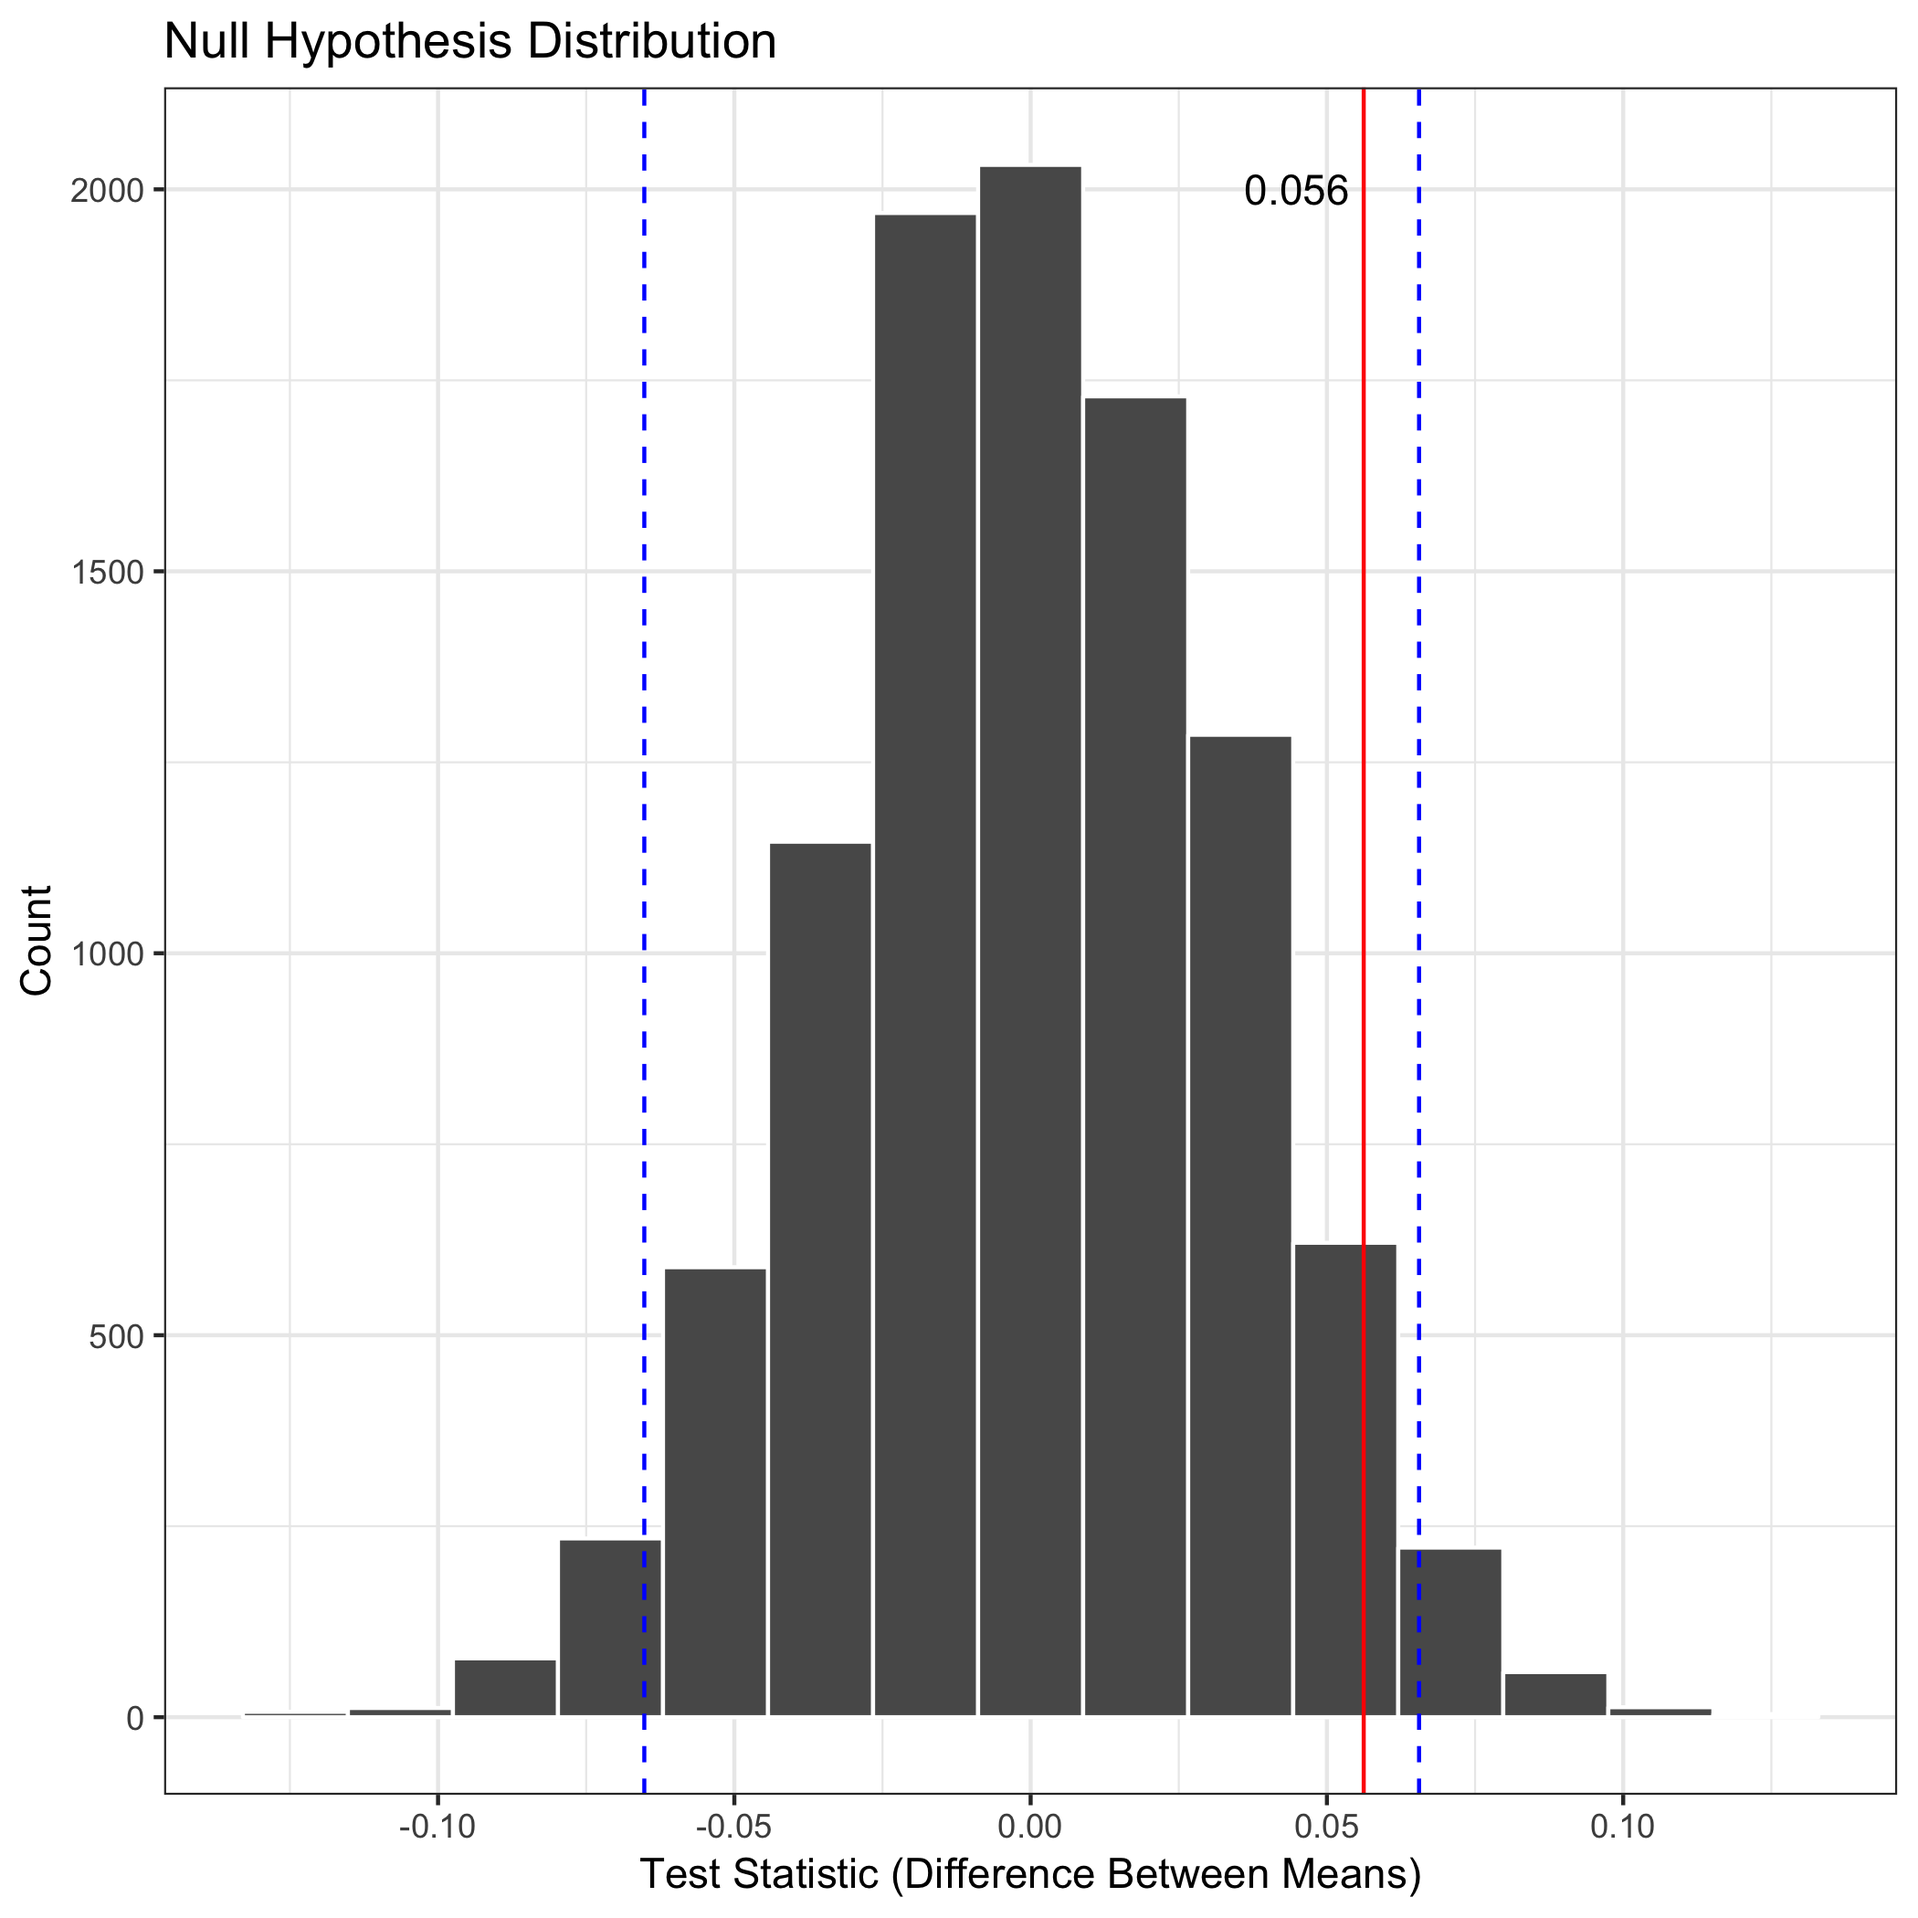
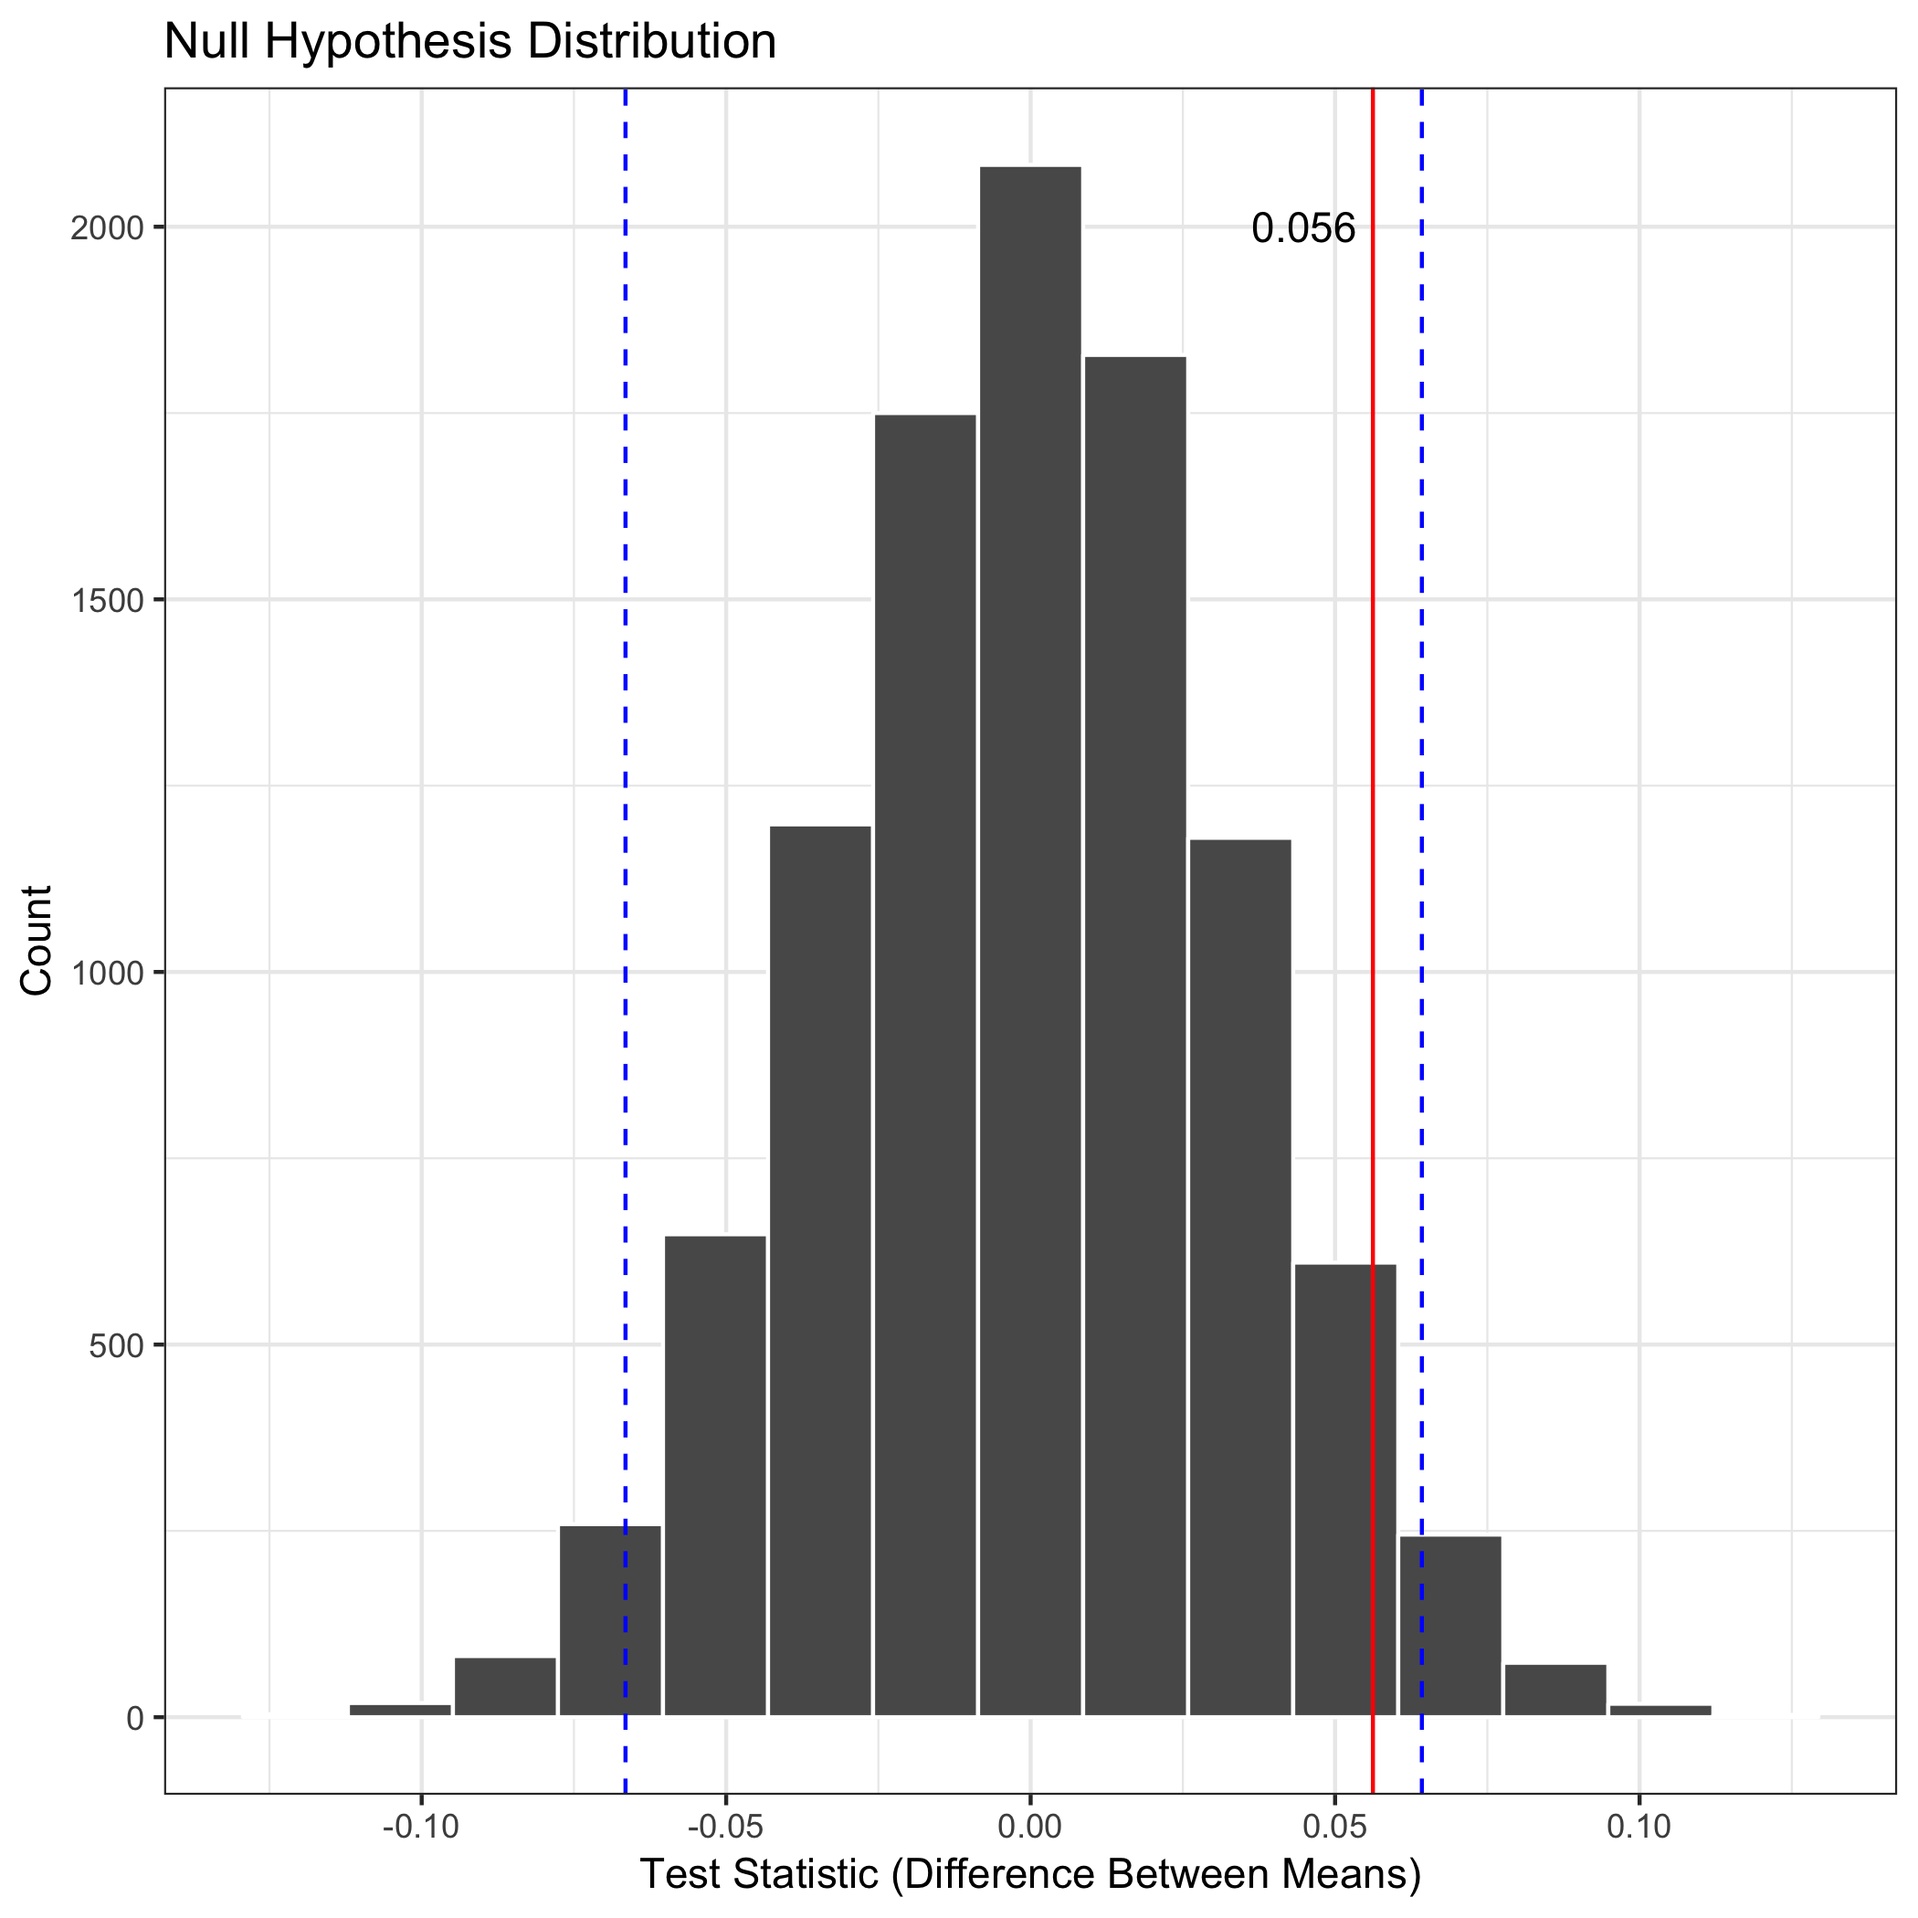
Ran commandline scripts from end to end

diff --git a/doc/Report.md b/doc/Report.md
@@ -56,7 +56,7 @@ A two-sample hypothesis test was conducted where the test statistic is the diffe
 We also computed the sample test statistic (`delta_star`), a 95% confidence interval, and the p-value:
 
     ##   delta_star    lower_ci   upper_ci p_value
-    ## 1 0.05620965 -0.06519498 0.06554847  0.0974
+    ## 1 0.05620965 -0.06652909 0.06688259  0.0982
 
 The null hypothesis distribution is visualized below as a histogram overlaid with the sample test statistic in red to show where it fell in relation to our confidence interval:
 
